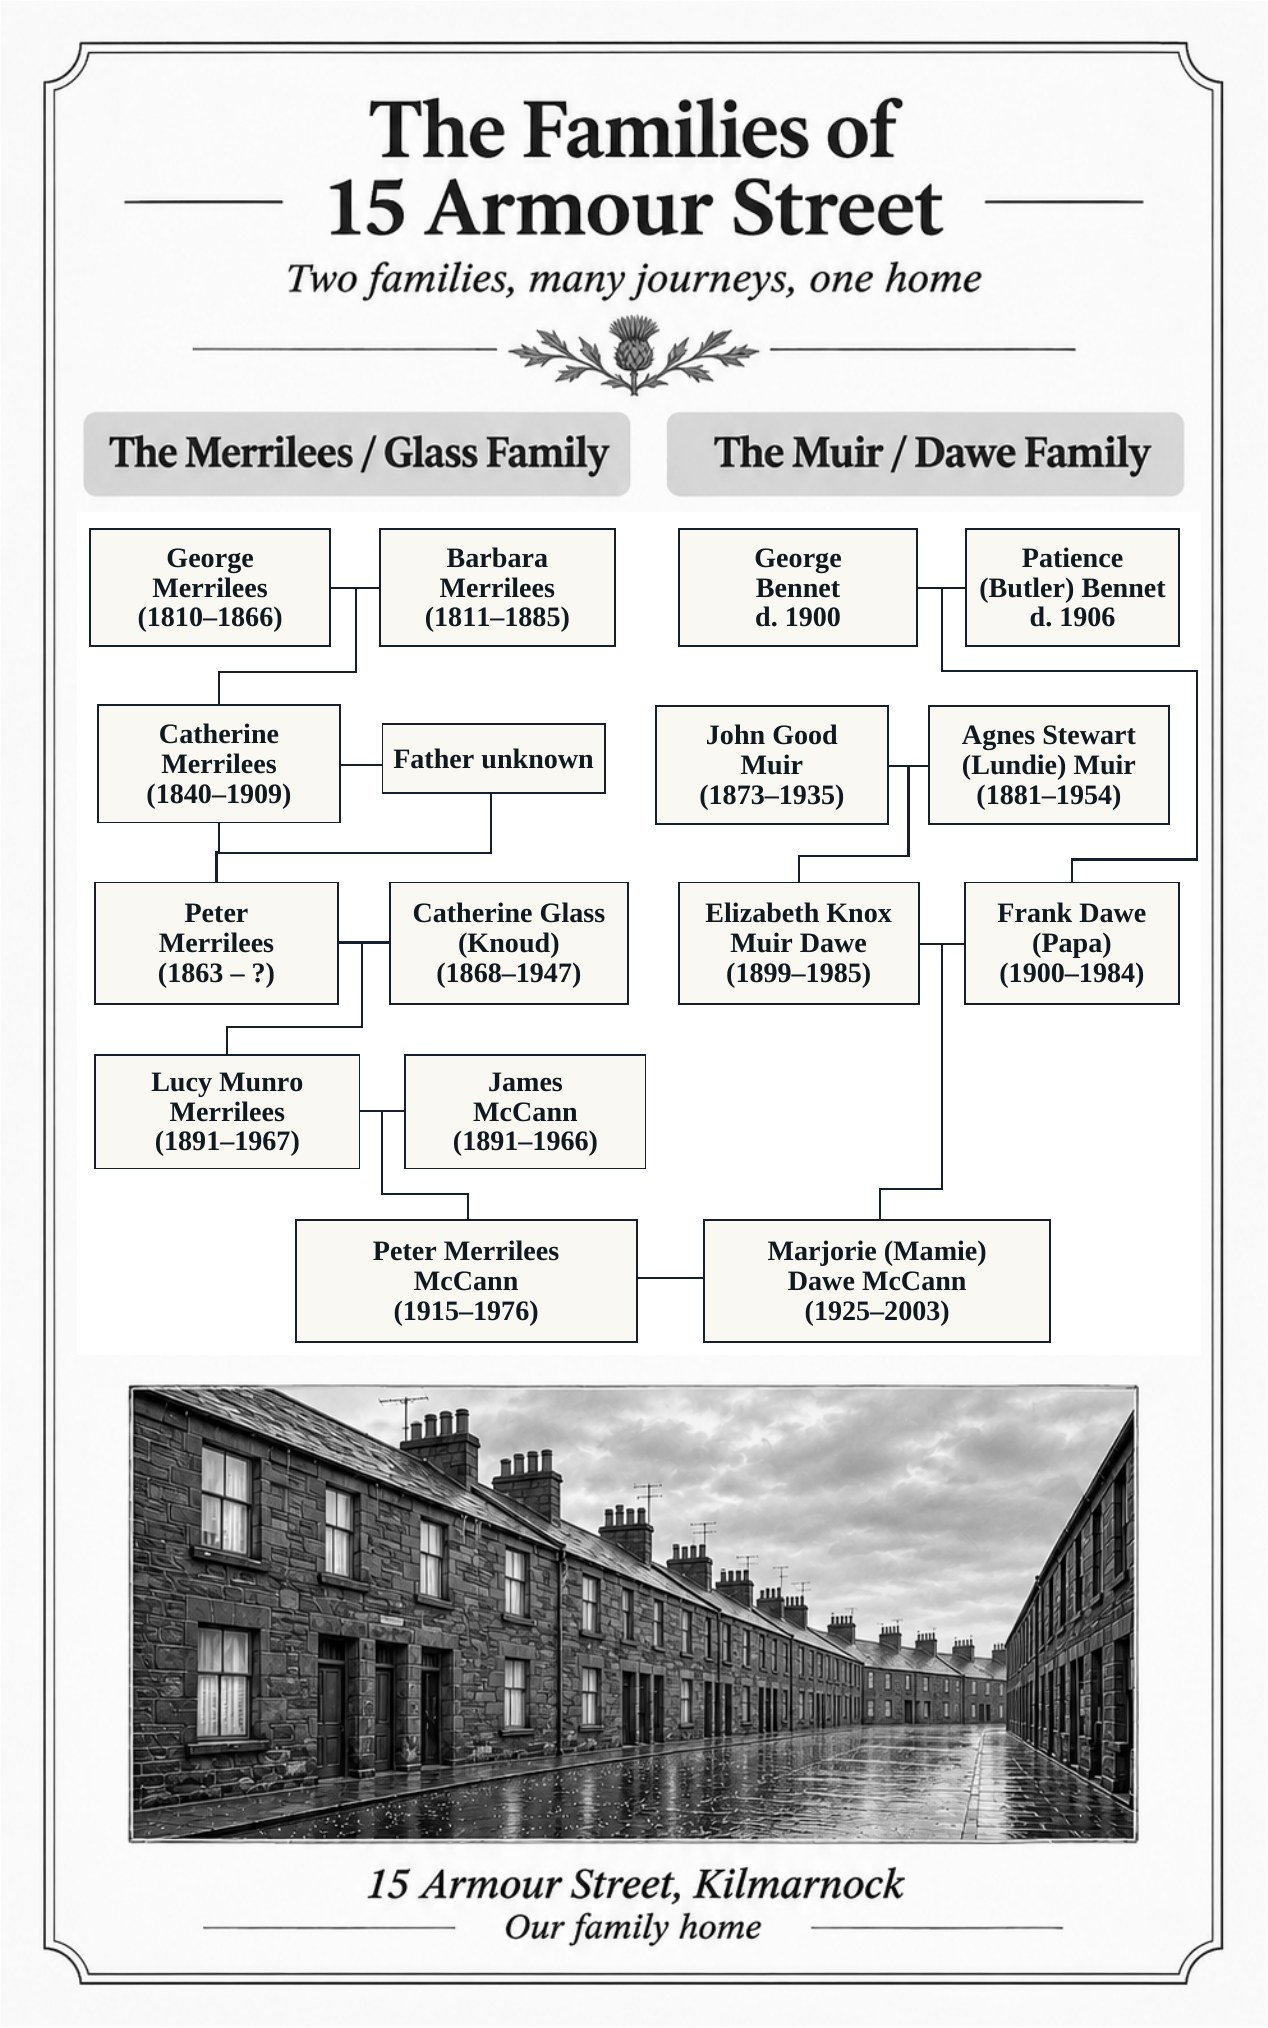
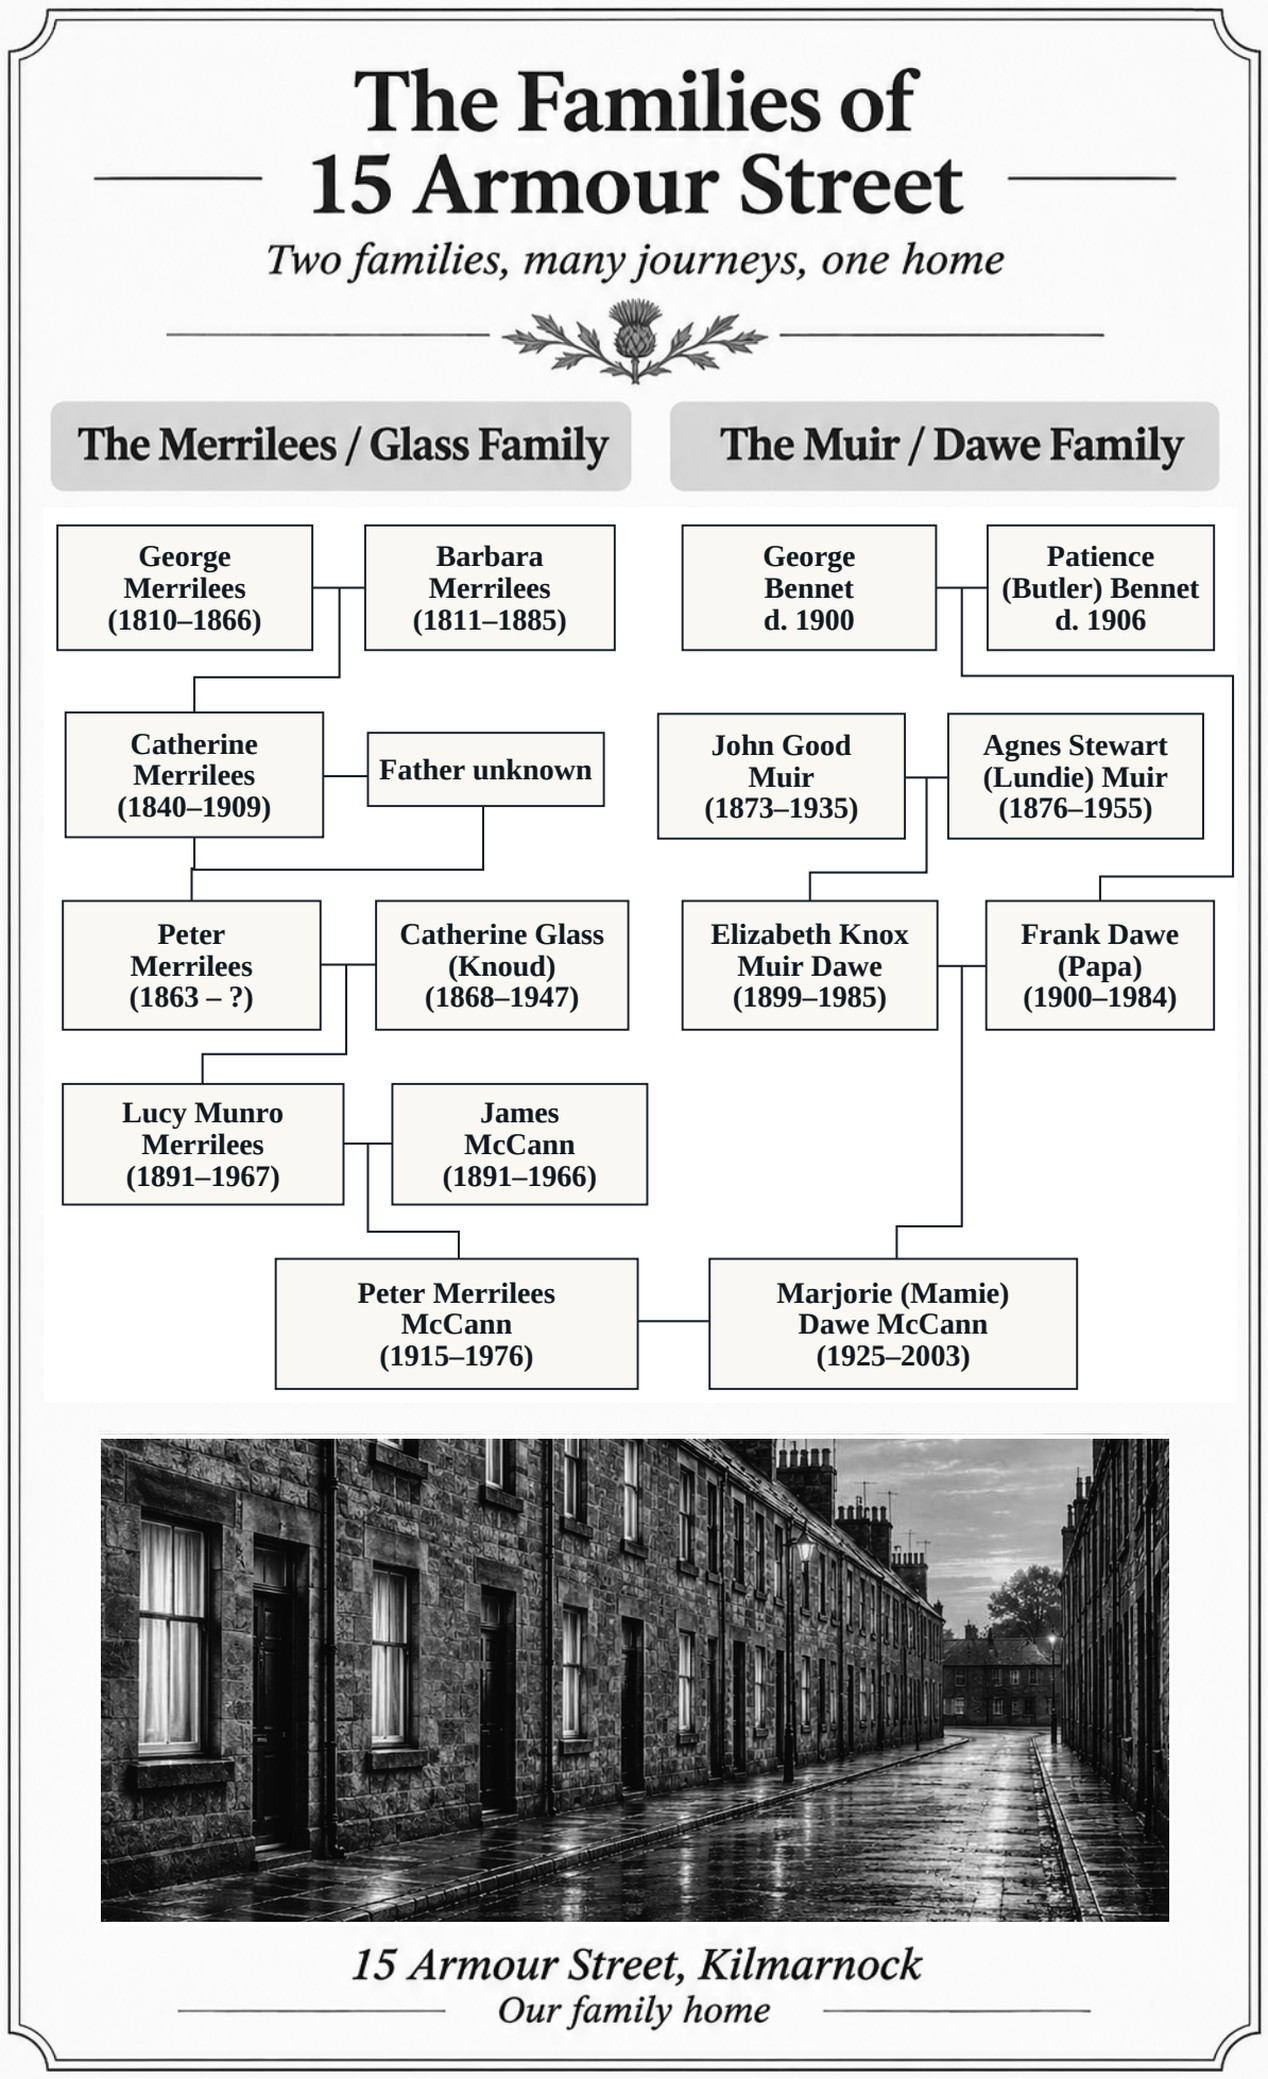
Pass 24, Task 3: Research Journey family tree replaced (third time); Agnes Muir now 1876-1955; list, alt text, README updated

diff --git a/research-journey/index.html b/research-journey/index.html
@@ -63,10 +63,10 @@
 
         <!-- [ Julie to supply short intro for the Research Journey page ] -->
 
-        <!-- EDIT HERE: The Families of 15 Armour Street (the graphic was replaced on 20 Nov 2026, second replacement, with the page as displayed in Julie's PDF dated 18 Nov 2026; the graphic carries its own title, so there is no heading here). The list below follows the graphic. If the graphic changes, update the list too. -->
+        <!-- EDIT HERE: The Families of 15 Armour Street (the graphic was replaced on 22 Nov 2026, third replacement, with the page as displayed in Julie's PDF Hameward_Bend_Family_Tree_Cover_Matched_22Nov2026.pdf; the graphic carries its own title, so there is no heading here). The list below follows the graphic. If the graphic changes, update the list too. -->
         <figure class="record-figure">
           <a class="photo-frame photo-frame-img photo-frame-record" href="../assets/images/research/families-of-15-armour-street-large.jpg" aria-label="View larger family tree image">
-            <img src="../assets/images/research/families-of-15-armour-street.jpg" alt="Family tree titled The Families of 15 Armour Street: two families, many journeys, one home. The Merrilees / Glass Family is on the left and the Muir / Dawe Family is on the right, joining at the bottom in Peter Merrilees McCann and Marjorie Dawe McCann. A reconstructed picture of 15 Armour Street, Kilmarnock, our family home, is underneath. A text version follows." width="800" height="1279" loading="lazy" decoding="async">
+            <img src="../assets/images/research/families-of-15-armour-street.jpg" alt="Family tree titled The Families of 15 Armour Street: two families, many journeys, one home. The Merrilees / Glass Family is on the left and the Muir / Dawe Family is on the right, joining at the bottom in Peter Merrilees McCann and Marjorie Dawe McCann. Underneath is a picture of a rainy, cobbled terraced street, captioned 15 Armour Street, Kilmarnock, our family home. A text version follows." width="800" height="1312" loading="lazy" decoding="async">
           </a>
           <p class="photo-credit"><em>Select the image to enlarge it.</em></p>
           <details class="tree-list">
@@ -82,7 +82,7 @@
             <p><strong>The Muir / Dawe Family</strong></p>
             <ul>
               <li>George Bennet (died 1900) and Patience (Butler) Bennet (died 1906).</li>
-              <li>John Good Muir (1873 – 1935) and Agnes Stewart (Lundie) Muir (1881 – 1954).</li>
+              <li>John Good Muir (1873 – 1935) and Agnes Stewart (Lundie) Muir (1876 – 1955).</li>
               <li>Their daughter Elizabeth Knox Muir Dawe (1899 – 1985).</li>
               <li>Frank Dawe (Papa) (1900 – 1984), son of George and Patience Bennet, shown alongside Elizabeth.</li>
               <li>Their daughter Marjorie (Mamie) Dawe McCann (1925 – 2003), shown alongside Peter Merrilees McCann.</li>

diff --git a/README.md b/README.md
@@ -97,7 +97,7 @@ Newfoundland Regiment: `assets/images/newfoundland-regiment/` holds the stamp (6
 
 India album: `assets/images/india-album/` holds `album-cover` and `album-page-01` to `album-page-20`, each 1200px on the long edge with a `-large.jpg` twin at 2400px (page 02 is 2048px, its source size). The cover is `IMG_0356.jpeg`. Pages 01 to 20 are Files 015 to 034 in number order, except: page 02 (File 016) uses the whole-page copy embedded in Julie's docx ("Trial page B"), because File_016 is a tighter crop with the page edges cut off; pages 03, 05, 12 and 17 (Files 017, 019, 026, 031) and page 16 (File 030) come from `embedded\` as approved. File 021 is the same in both folders. Several of these carry a wrong EXIF rotation tag, so each was rotated from what is visible, then saved fresh. Files 001 to 014 and `IMG_0357.jpeg` are single loose photographs (a man on a horse, a medical officer, a performing bear, Dal Lake and so on) and are not album pages, so they are not on the site. The docx's "Trial page A" is another photograph of the File_017 page.
 
-The Research Journey: `assets/images/research/` holds five National Records of Scotland record scans (birth 1863, marriage 1830, two deaths, corrected entry 1885), each with a `-large.jpg` twin that the page links to, the HMS Snapdragon casualty register (`hms-snapdragon-casualty-register-1942.jpg`, 1600px wide, linking to a 3200px `-large.jpg`; shown as the whole two-page spread, uncropped), plus the small HMS Snapdragon photograph (473x248, no large twin, shown at natural size). **Never crop or cover the record images**: the NRS "Crown copyright… Image was generated at…" header is part of each one, so they use a plain frame (`photo-frame-record`, no photo corners, no tilt). Each has its credit line directly beneath, built from the header printed on the image. The Snapdragon credit is "HMS Snapdragon at Bandar Shapur, Iran, August 1941. Australian War Memorial, photograph 134400. Public domain." A single Open Government Licence v3.0 line sits in the Sources part and is worded "NRS record images reused under…" so it does not claim to cover the National Archives register. The family tree graphic is `families-of-15-armour-street.jpg` (800x1279, linking to a 1268x2028 `-large.jpg`, cropped from the PDF page at 300 dpi). It was replaced on 19 Nov 2026 (Pass 20) with Julie's corrected copy dated 18 Nov 2026 (`Hameward_Bend_Family_Tree_Corrected_18Nov2026.pdf`), and replaced a second time on 20 Nov 2026 (Pass 21): Pass 20 had used the raster image embedded in the PDF, but the page as displayed layers live text over it and is the newer graphic (Barbara 1811–1885, the surname spelled "Bennet", and a connector from George and Patience Bennet down to Frank Dawe, matching Julie's 19 Nov note that Frank's parents are George and Patience). The list spells the surname "Bennet" because her graphic does. The graphic is much plainer than the old one: names and years only, with no occupations, places or nicknames other than "(Papa)", "(Mamie)" and "(Knoud)", so the "Read this as a list" text was rewritten to match and now drops the occupations and places the old tree carried. Both JPEGs carried a C2PA content-credentials block (APP11) in the prepared files, both times; it was stripped losslessly from the repo copies, and a byte scan for `Exif`, `c2pa`, `jumb` and `XMP` now finds none. It sits at the top of the page with no heading of its own (the graphic carries its title) and has the same "Select the image to enlarge it." line, plus a collapsed "Read this as a list" (`<details>`) giving the same content as text. **If the graphic is ever replaced, update that list to match.** No children are named anywhere on the page.
+The Research Journey: `assets/images/research/` holds five National Records of Scotland record scans (birth 1863, marriage 1830, two deaths, corrected entry 1885), each with a `-large.jpg` twin that the page links to, the HMS Snapdragon casualty register (`hms-snapdragon-casualty-register-1942.jpg`, 1600px wide, linking to a 3200px `-large.jpg`; shown as the whole two-page spread, uncropped), plus the small HMS Snapdragon photograph (473x248, no large twin, shown at natural size). **Never crop or cover the record images**: the NRS "Crown copyright… Image was generated at…" header is part of each one, so they use a plain frame (`photo-frame-record`, no photo corners, no tilt). Each has its credit line directly beneath, built from the header printed on the image. The Snapdragon credit is "HMS Snapdragon at Bandar Shapur, Iran, August 1941. Australian War Memorial, photograph 134400. Public domain." A single Open Government Licence v3.0 line sits in the Sources part and is worded "NRS record images reused under…" so it does not claim to cover the National Archives register. The family tree graphic is `families-of-15-armour-street.jpg` (800x1312, linking to a 1268x2079 `-large.jpg`, cropped from the PDF page at 300 dpi). It was replaced on 19 Nov 2026 (Pass 20) with Julie's corrected copy dated 18 Nov 2026 (`Hameward_Bend_Family_Tree_Corrected_18Nov2026.pdf`), and replaced a second time on 20 Nov 2026 (Pass 21): Pass 20 had used the raster image embedded in the PDF, but the page as displayed layers live text over it and is the newer graphic (Barbara 1811–1885, the surname spelled "Bennet", and a connector from George and Patience Bennet down to Frank Dawe, matching Julie's 19 Nov note that Frank's parents are George and Patience). The list spells the surname "Bennet" because her graphic does. The graphic is much plainer than the old one: names and years only, with no occupations, places or nicknames other than "(Papa)", "(Mamie)" and "(Knoud)", so the "Read this as a list" text was rewritten to match and now drops the occupations and places the old tree carried. Both JPEGs carried a C2PA content-credentials block (APP11) in the prepared files, both times; it was stripped losslessly from the repo copies, and a byte scan for `Exif`, `c2pa`, `jumb` and `XMP` now finds none. It sits at the top of the page with no heading of its own (the graphic carries its title) and has the same "Select the image to enlarge it." line, plus a collapsed "Read this as a list" (`<details>`) giving the same content as text. It was replaced a third time on 22 Nov 2026 (Pass 24) with `Hameward_Bend_Family_Tree_Cover_Matched_22Nov2026.pdf`: the page was rendered at 300 dpi with pypdfium2 and cropped to the outer frame (the new frame is slightly squatter, hence 800x1312), checked against the PDF's text layer, and re-encoded fresh from pixels so the byte scan for `Exif`, `c2pa`, `jumb` and `XMP` finds none. Agnes Stewart (Lundie) Muir's dates are now 1876–1955 (from the birth certificate Julie found); the street picture is now a rainy, cobbled terraced street matching the book cover, captioned "15 Armour Street, Kilmarnock. Our family home."; the alt text was rewritten to describe it. **If the graphic is ever replaced, update that list to match.** No children are named anywhere on the page.
 
 The Ways of Home, Threads part: `assets/images/knitting/` holds the knitting and sewing photographs, each with a `-large.jpg` twin (1350x1800 or 1800x1350) that the small version links to, plus the Singer museum photograph (no large twin). The one baby set photo is `cream-baby-shawl-and-set.jpg` (with its `-large.jpg` twin); since 7 Nov 2026 it is Mhairi's own photograph (it replaced the earlier image under the same name), with Julie's label "A gift from Mhairi for her grandniece." beneath it. The two pink-cast photos of the same set were removed on 4 Nov 2026 and their files deleted. `pink-sock-in-progress.jpg` (750x765, with its `-large.jpg` twin) is a cropped replacement from 7 Nov 2026; the earlier one showed Julie's foot. The new `paragon-knitting-book-101-cover.jpg` (with `-large.jpg` twin) is in use in "Made to be worn and loved", with the visible label "Paragon Knitting Book No. 101, from my own collection". Also in use: `sewing-basket-open-lid.jpg` (with its twin). About the Storyteller: `assets/images/storyteller/julie-portrait.jpg` (1000x971, the warm portrait Julie chose). All are metadata-stripped.
 
